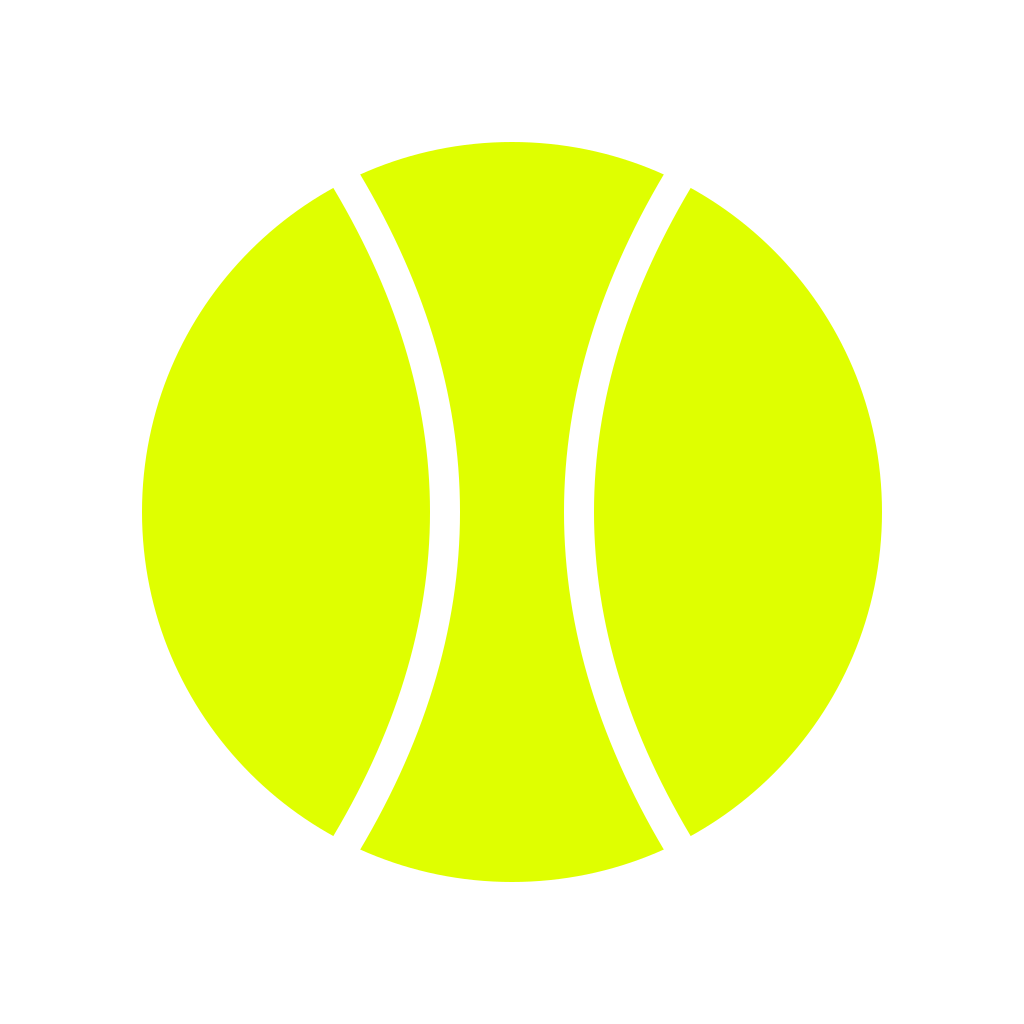
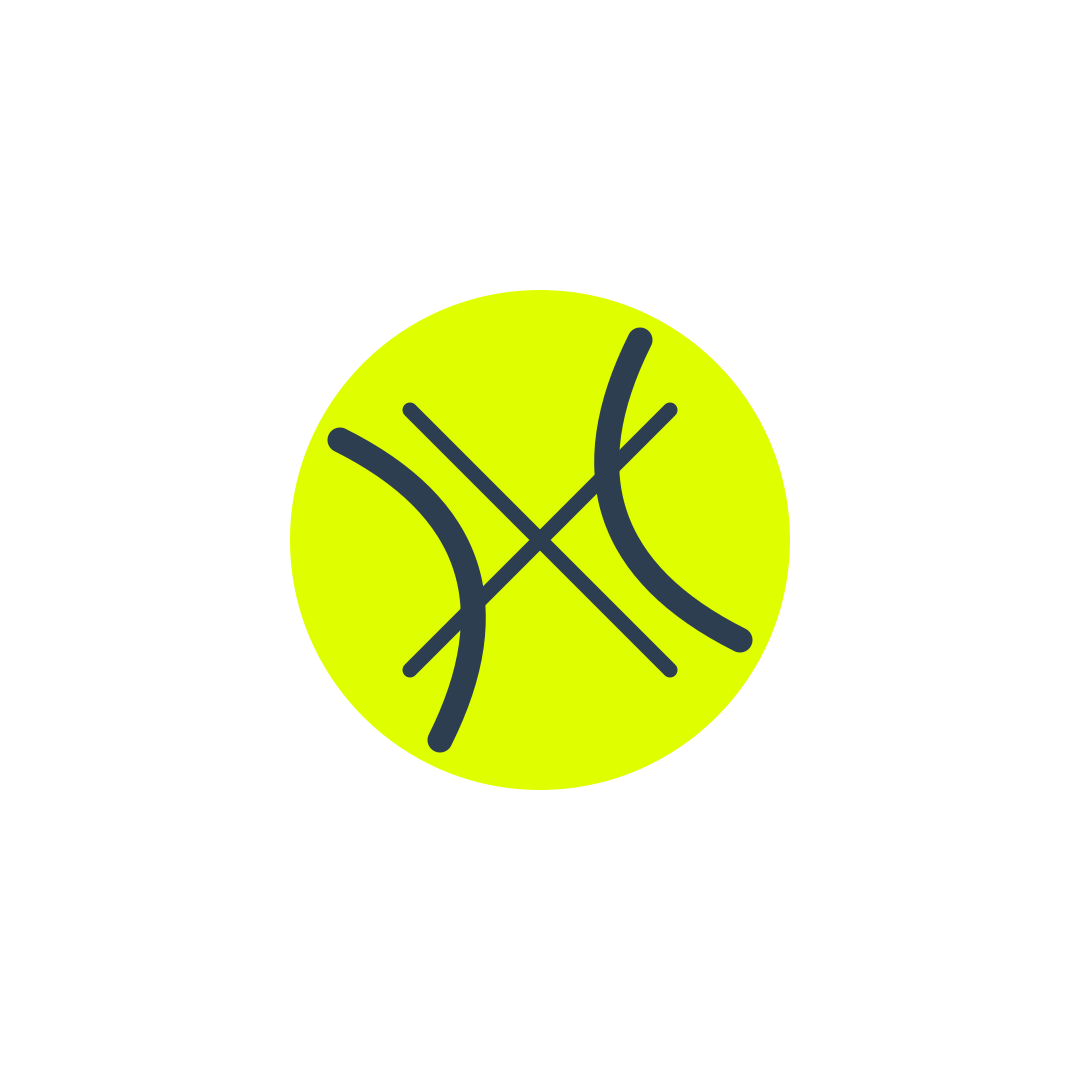
feat(图标): 添加生成安卓自适应图标的前景图片脚本
添加 fix-adaptive-icon.js 脚本用于生成适合安卓自适应图标的前景图片
该脚本使用 sharp 包将 SVG 转换为适当大小的 PNG 图片

Changed region(s): [[0.125, 0.125, 0.875, 0.875]]

diff --git a/fix-adaptive-icon.js b/fix-adaptive-icon.js
@@ -1,0 +1,37 @@
+const fs = require('fs');
+const path = require('path');
+
+// We will use the existing sharp package to generate a smaller foreground icon for Android
+// Android adaptive icons require the foreground image to be smaller (usually around 432x432 inside a 1080x1080 transparent canvas)
+// to leave room for the OS to apply masks (circle, squircle, rounded rect).
+
+const adaptiveSvg = `
+<svg width="1080" height="1080" viewBox="0 0 1080 1080" xmlns="http://www.w3.org/2000/svg">
+  <!-- Transparent background for adaptive foreground -->
+  <rect width="1080" height="1080" fill="transparent" />
+  
+  <!-- Scale down the main tennis ball icon so it fits within the safe zone (usually central 66 dp / 108 dp -> ~61%) -->
+  <!-- Let's make the ball about 500x500 centered -->
+  <g transform="translate(290, 290) scale(1)">
+    <circle cx="250" cy="250" r="250" fill="#DFFF00" />
+    <path d="M 50 150 Q 250 250 150 450" fill="none" stroke="#2C3E50" stroke-width="25" stroke-linecap="round" />
+    <path d="M 450 350 Q 250 250 350 50" fill="none" stroke="#2C3E50" stroke-width="25" stroke-linecap="round" />
+    <path d="M 120 120 L 380 380" fill="none" stroke="#2C3E50" stroke-width="15" stroke-linecap="round" />
+    <path d="M 120 380 L 380 120" fill="none" stroke="#2C3E50" stroke-width="15" stroke-linecap="round" />
+  </g>
+</svg>
+`;
+
+async function generateAdaptiveIcon() {
+  const sharp = require('sharp');
+  const assetsDir = path.join(__dirname, 'assets');
+  
+  console.log('Generating smaller adaptive foreground icon for Android...');
+  await sharp(Buffer.from(adaptiveSvg))
+    .png()
+    .toFile(path.join(assetsDir, 'adaptive-icon.png'));
+    
+  console.log('Done!');
+}
+
+generateAdaptiveIcon().catch(console.error);
